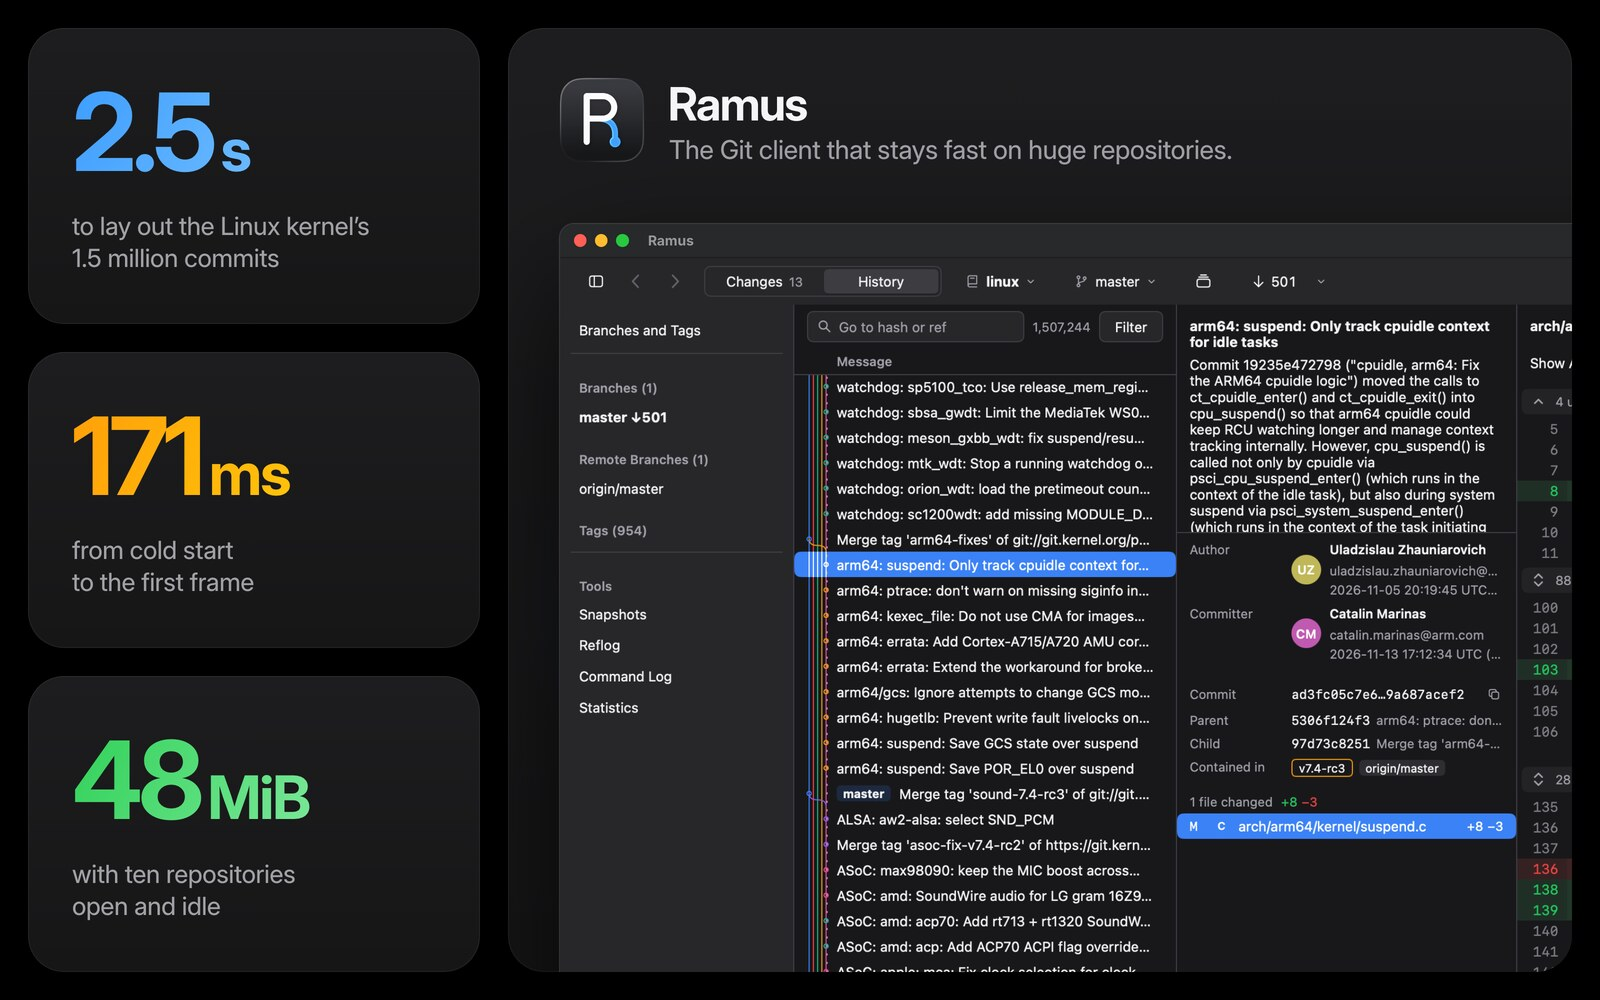
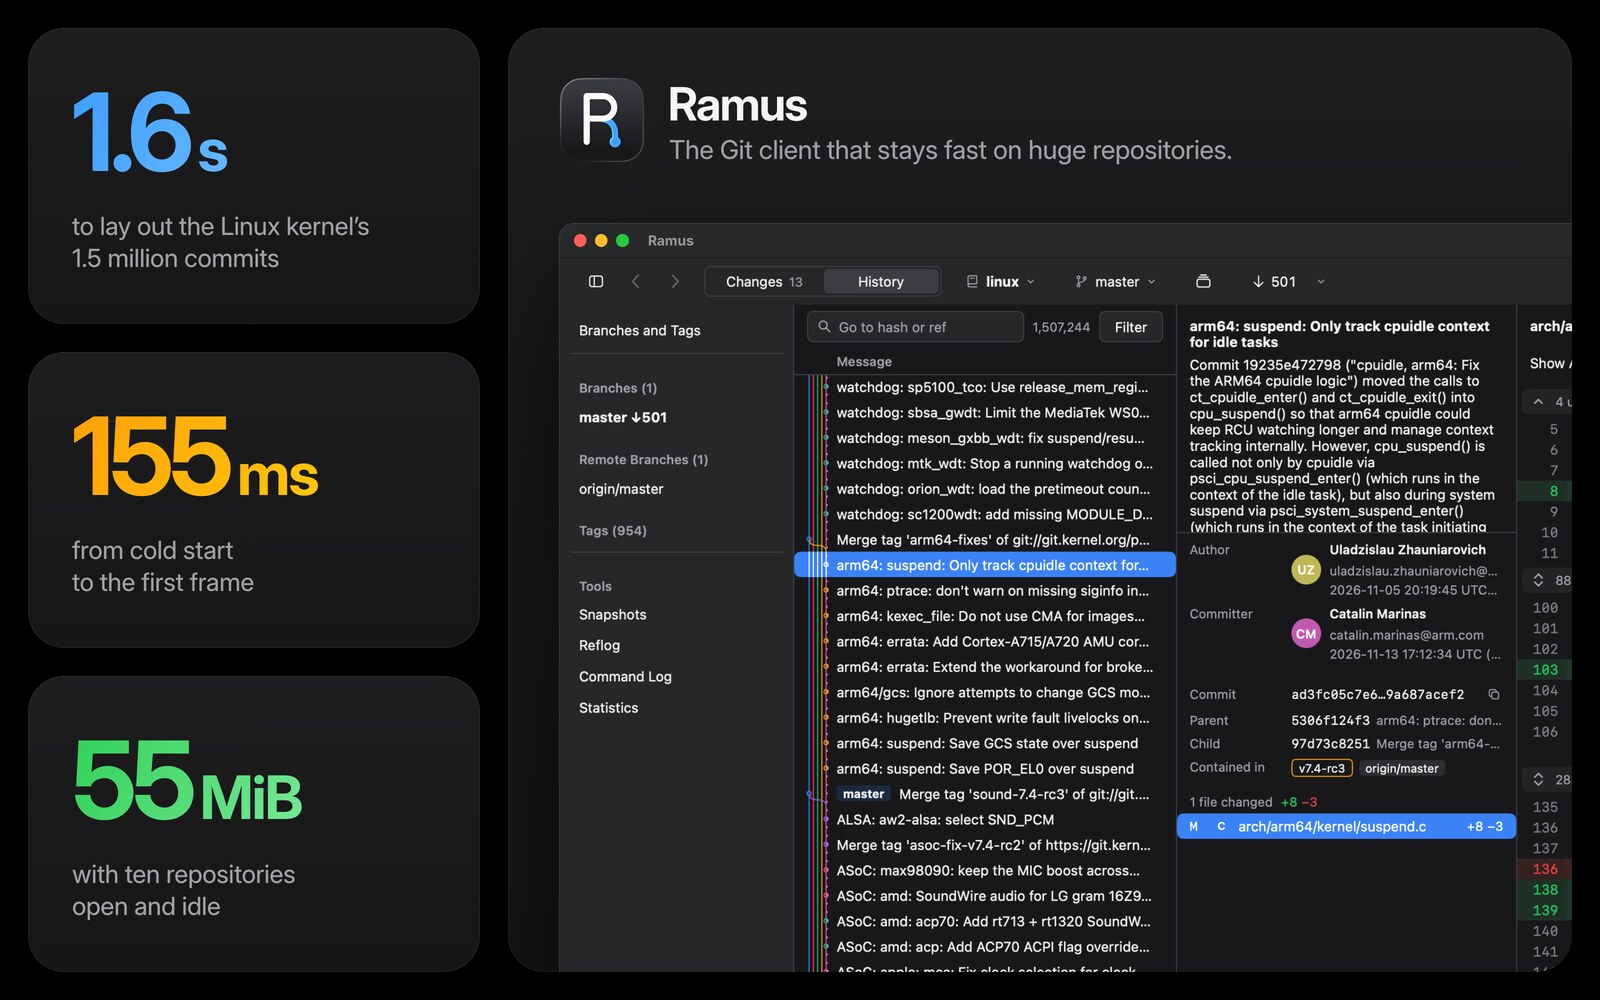
docs: publish the figures measured now, and warn on a slow cold start
README, docs/benchmarks.md and the cards still gave the run of 14
November: a cold start of 171 ms that was the first CI run's, which
recent CI runs put between 141 and 374 ms, and kernel, status, diff and
idle figures the code has moved from. Every figure is now from a rerun
on 19 November by the documented method, the reload table at its own
settings, and the cold start measured on Apple silicon at normal
priority (median 155 ms), the CI runner's spread given beside it. The
cards are rendered again with their new figures.

CI's cold start still fails when the fastest of ten starts is over
300 ms, above every fastest run seen, and now warns over 250 ms, which
two of the last twenty runs reached; the runner's spread cannot hold the
200 ms that hardware does.

Changed region(s): [[0.0312, 0.744, 0.2188, 0.837], [0.0625, 0.403, 0.2188, 0.496], [0.0312, 0.093, 0.1562, 0.186]]

diff --git a/assets/cards/bento.html b/assets/cards/bento.html
@@ -15,9 +15,9 @@ body { background: #000; color: #f5f5f7; }
 .hero p { position: absolute; left: 161px; top: 106px; font-size: 26px; font-weight: 450; letter-spacing: -0.012em; color: #a1a1a6; }
 .win { --k: 1.06; left: 52px; top: 196px; }
 </style>
-<div class="tile stat s1"><b>2.5<small>s</small></b><span>to lay out the Linux kernel&rsquo;s<br>1.5 million commits</span></div>
-<div class="tile stat s2"><b>171<small>ms</small></b><span>from cold start<br>to the first frame</span></div>
-<div class="tile stat s3"><b>48<small>MiB</small></b><span>with ten repositories<br>open and idle</span></div>
+<div class="tile stat s1"><b>1.6<small>s</small></b><span>to lay out the Linux kernel&rsquo;s<br>1.5 million commits</span></div>
+<div class="tile stat s2"><b>155<small>ms</small></b><span>from cold start<br>to the first frame</span></div>
+<div class="tile stat s3"><b>55<small>MiB</small></b><span>with ten repositories<br>open and idle</span></div>
 <div class="tile hero">
   <img class="icon" src="../app-icon/monogram/png/icon-dark-1024.png">
   <h1>Ramus</h1>

diff --git a/assets/cards/midnight.html b/assets/cards/midnight.html
@@ -12,5 +12,5 @@ p { position: absolute; left: 0; right: 0; top: 242px; font-size: 29px; font-wei
 <div class="glow"></div>
 <img class="icon" src="../app-icon/monogram/png/icon-dark-1024.png">
 <h1>Fast on the largest repositories.</h1>
-<p>Ramus lays out the Linux kernel&rsquo;s 1.5 million commits in 2.5 seconds.</p>
+<p>Ramus lays out the Linux kernel&rsquo;s 1.5 million commits in 1.6 seconds.</p>
 <div class="win dark"><div class="bar"><i></i><i></i><i></i><b>Ramus</b></div><img src="history-dark.png"></div>

diff --git a/scripts/coldstart/main.go b/scripts/coldstart/main.go
@@ -21,9 +21,10 @@ import (
 func main() {
 	runs := flag.Int("runs", 10, "runs to time")
 	budget := flag.Duration("budget", 200*time.Millisecond, "the most the fastest run may take")
+	warn := flag.Duration("warn", 0, "warn when the fastest run takes longer than this, short of the budget")
 	flag.Parse()
 	if flag.NArg() != 1 {
-		fmt.Fprintln(os.Stderr, "usage: coldstart [-runs n] [-budget d] <binary>")
+		fmt.Fprintln(os.Stderr, "usage: coldstart [-runs n] [-budget d] [-warn d] <binary>")
 		os.Exit(2)
 	}
 	var times []time.Duration
@@ -44,6 +45,15 @@ func main() {
 	if times[0] > *budget {
 		fmt.Fprintln(os.Stderr, "the fastest cold start is over budget")
 		os.Exit(1)
+	}
+	if *warn > 0 && times[0] > *warn {
+		// An annotation on the run where GitHub Actions runs this.
+		prefix := "warning: "
+		if os.Getenv("GITHUB_ACTIONS") == "true" {
+			prefix = "::warning title=Cold start::"
+		}
+		fmt.Printf("%sthe fastest cold start, %v, is over %v and near the budget of %v\n", prefix,
+			times[0].Round(100*time.Microsecond), *warn, *budget)
 	}
 }
 

diff --git a/docs/benchmarks.md b/docs/benchmarks.md
@@ -12,7 +12,7 @@ rerun on another machine will differ, which is why the method is here.
 | OS | macOS 27.2.1 |
 | git | 2.56.1 |
 | Go | 1.27.4 |
-| Date | 2026-11-14 |
+| Date | 2026-11-19 |
 | Runs | 3 of each case, p50 shown (p95 in the JSON) |
 | Load | GOMAXPROCS=6, at background priority (`taskpolicy -c background`), on a machine in use |
 
@@ -34,21 +34,21 @@ headless tester: a frame there is building, layout and painting in
 software, without the GPU. Cold start, which needs a window, is measured
 apart, in CI.
 
-### Linux kernel (1,506,743 commits, about 90,000 files)
+### Linux kernel (1,507,296 commits, about 90,000 files)
 
 | Case | p50 | Peak memory (app / git) |
 |---|---|---|
-| Open to branches and tags read | 1.05 s | |
-| History: first screen, after the load starts | 35 ms | 172 MiB / 33 MiB |
-| History: open to first screen | 1.08 s | |
-| History: all 1,506,743 commits laid out | 2.54 s | |
-| History with no commit-graph: first screen | 24.6 s | 156 MiB / 1.6 GiB |
-| History with no commit-graph: all commits | 27.3 s | |
-| Scrolling the whole graph: frame time p50 / max over 600 frames | 1.27 ms / 2.5 ms | 235 MiB / 121 MiB |
-| Jump to the first commit by hash | 85 ms | |
-| Filter by message: first screen / all 7,026 found | 108 ms / 29.7 s | 81 MiB / 1.5 GiB |
-| Filter by author: first screen / all 43,776 found | 39 ms / 30.9 s | |
-| Filter by path (`kernel/sched/core.c`): first screen / all 1,993 found | 585 ms / 672 ms | |
+| Open to branches and tags read | 765 ms | |
+| History: first screen, after the load starts | 30 ms | 176 MiB / 33 MiB |
+| History: open to first screen | 795 ms | |
+| History: all 1,507,296 commits laid out | 1.59 s | |
+| History with no commit-graph: first screen | 15.0 s | 159 MiB / 1.6 GiB |
+| History with no commit-graph: all commits | 17.0 s | |
+| Scrolling the whole graph: frame time p50 / max over 600 frames | 60 ms / 2.35 s | 292 MiB / 208 MiB |
+| Jump to the first commit by hash | 496 ms | |
+| Filter by message: first screen / all 7,058 found | 48 ms / 22.9 s | 97 MiB / 1.5 GiB |
+| Filter by author: first screen / all 43,829 found | 33 ms / 23.8 s | |
+| Filter by path (`kernel/sched/core.c`): first screen / all 1,994 found | 525 ms / 581 ms | |
 
 With a commit-graph Ramus walks history itself. Without one it asks
 `git rev-list --topo-order`, which prints nothing until it has walked
@@ -62,16 +62,17 @@ commit-graph ten commits behind, then time the refs moving to the history
 showing the new tip with every row laid out: one commit on top, then a
 fetch of 100 on a remote branch. The kernel case works in a bare clone
 sharing the fixture's objects, with its commit-graph linked in; the other
-in a made repository of 100,010 commits. These were taken on 2026-11-15
-on the machine above at GOMAXPROCS 18 and normal priority, 3 runs each.
+in a made repository of 100,010 commits. These were taken on the day
+above, on the same machine at GOMAXPROCS 18 and normal priority, 3 runs
+each.
 
 | Case | Kernel | 100,010 commits |
 |---|---|---|
-| Graph 10 behind: first screen | 14 ms | 7.4 ms |
-| Graph 10 behind: whole history | 879 ms | 14 ms |
-| A commit on top: shown | 142 ms | 199 ms |
-| A fetch of 100 commits: shown | 149 ms | 141 ms |
-| Peak memory (app / git) | 178 MiB / 18 MiB | 32 MiB / 12 MiB |
+| Graph 10 behind: first screen | 22 ms | 11 ms |
+| Graph 10 behind: whole history | 1.15 s | 23 ms |
+| A commit on top: shown | 146 ms | 156 ms |
+| A fetch of 100 commits: shown | 174 ms | 127 ms |
+| Peak memory (app / git) | 180 MiB / 141 MiB | 80 MiB / 221 MiB |
 
 The commits the graph lacks are read from their objects and history is
 ordered natively, where git used to order it whole: before, the same
@@ -84,57 +85,66 @@ alone above its rows, which stay as they were.
 
 | Case | p50 | Peak memory (app / git) |
 |---|---|---|
-| Open to a populated status panel, no fsmonitor | 3.65 s | 198 MiB / 134 MiB |
+| Open to a populated status panel, no fsmonitor | 3.36 s | 252 MiB / 134 MiB |
 
 ### Repositories the bench makes
 
 | Case | p50 | Peak memory (app / git) |
 |---|---|---|
-| One file saved in a 20,000-file repository, to the status showing it | 171 ms | 26 MiB / 16 MiB |
-| 5,000 files saved at once, to the status showing all of them | 876 ms | 48 MiB / 12 MiB |
-| ... frame time p50 / max meanwhile; git processes at once | 0.84 ms / 12 ms; 1 | |
-| File list of a commit of 10,000 files | 74 ms | 28 MiB / 14 MiB |
-| 50 MB text file's diff: git and reading / the viewer built | 965 ms / 334 ms | 383 MiB / 218 MiB |
-| 100 MB binary's diff | 861 ms | |
-| Ten repositories open, idle: CPU over 30 s | 0.10% | 48 MiB / 9 MiB |
-| 50,000 branches: open to refs and status / branches view | 366 ms / 1.79 s | 64 MiB / 21 MiB |
-| 2,001 packs and 5,000 loose objects: open to status / history | 266 ms / 474 ms | 23 MiB / 73 MiB |
+| One file saved in a 20,000-file repository, to the status showing it | 154 ms | 30 MiB / 16 MiB |
+| 5,000 files saved at once, to the status showing all of them | 1.53 s | 66 MiB / 16 MiB |
+| ... frame time p50 / max meanwhile; git processes at once | 1.04 ms / 52 ms; 2 | |
+| File list of a commit of 10,000 files | 42 ms | 30 MiB / 14 MiB |
+| 50 MB text file's diff: git and reading / the viewer built | 690 ms / 283 ms | 512 MiB / 218 MiB |
+| 100 MB binary's diff | 717 ms | |
+| Ten repositories open, idle: CPU over 30 s | 0.09% | 55 MiB / 12 MiB |
+| 50,000 branches: open to refs and status / branches view | 276 ms / 1.25 s | 65 MiB / 48 MiB |
+| 2,001 packs and 5,000 loose objects: open to status / history | 230 ms / 502 ms | 27 MiB / 72 MiB |
 
 Idle means no frame asked for and no update published over the 30 seconds,
-with a heap of 4.8 MiB.
+with a heap of 6.5 MiB.
 
 Repositories Ramus hands to git or reads another way, each of the same
 3,000 commits:
 
 | Repository | Open to status | Whole history |
 |---|---|---|
-| Plain (files refs, SHA-1) | 274 ms | 57 ms |
-| Reftable refs | 232 ms | 56 ms |
-| SHA-256 objects | 274 ms | 58 ms |
-| Partial clone (`--filter=blob:none`) | 274 ms | 6 ms |
-| Shallow clone (depth 100) | 272 ms | 23 ms |
+| Plain (files refs, SHA-1) | 195 ms | 25 ms |
+| Reftable refs | 161 ms | 36 ms |
+| SHA-256 objects | 212 ms | 29 ms |
+| Partial clone (`--filter=blob:none`) | 194 ms | 3.8 ms |
+| Shallow clone (depth 100) | 202 ms | 15 ms |
 
 ### Soak
 
 The `soak` case opens three repositories, changes a file in one, reloads
 and closes them all, round after round, then checks that goroutines, open
 files, git processes and memory came back. It fails if goroutines or open
-files grow by more than two or the heap more than doubles. Two minutes on
-the machine above: 240 rounds, goroutines 6 to 6, open files 6 to 6, heap
-3.5 to 7.4 MiB. Ten minutes on GitHub's Linux runner: 2,278 rounds,
-goroutines 4 to 4, open files 9 to 9, heap 3.2 to 5.3 MiB. The `Soak`
-workflow runs it for two hours when started.
+files grow by more than two, or the heap to more than twice its size and
+16 MiB. Two minutes on the machine above: 224 rounds, goroutines 6 to 6,
+open files 6 to 6, heap 7.2 to 11.8 MiB. Ten minutes on GitHub's Linux
+runner, on 14 November 2026 and older code: 2,278 rounds, goroutines 4 to
+4, open files 9 to 9, heap 3.2 to 5.3 MiB. The `Soak` workflow runs it
+for two hours when started.
 
 ### Cold start
 
-`scripts/coldstart` starts the built app and times it to its first frame;
-CI runs it ten times on GitHub's macOS runner and fails when the fastest
-run is over 300 ms: a busy runner slows runs at random, never speeds one
-up. The last run: first start 655 ms, median 171 ms, fastest 153 ms.
+`scripts/coldstart` starts the built app (`CGO_ENABLED=0 go build`) and
+times it from exec to its first frame, ten times. On the machine above, at
+normal priority, as a user starts it: four times ten starts, medians 151
+to 160 ms, 155 ms over all, fastest 146 ms; the first start after a build
+482 ms. At background priority, on the efficiency cores, the median is
+300 ms.
+
+CI runs it on GitHub's macOS runner, a virtual machine with a virtual GPU.
+Over the 20 runs of 15 to 18 November 2026 the median of ten starts went
+from 141 to 374 ms (220 ms over all) and the fastest from 135 to 263 ms,
+for the same code, and the first start from 0.7 to 3.3 s. CI fails when
+the fastest is over 300 ms and warns over 250 ms: a busy runner slows runs
+at random, never speeds one up.
 
 ## Not measured yet
 
-- Cold start on real hardware, rather than a CI virtual machine.
 - Status with fsmonitor, and status on Windows and Linux.
 - Status refresh after touching one file in the kernel and the
   390,000-file repository, and anything on a repository of a million files.

diff --git a/README.md b/README.md
@@ -69,14 +69,14 @@ use):
 
 | | |
 |---|---|
-| Linux kernel, open to the first screen of history | 1.08 s |
-| Linux kernel, all 1,506,743 commits laid out in the graph | 2.54 s, 172 MiB |
-| Scrolling the kernel's whole graph, slowest frame of 600 | 2.5 ms |
-| 390,000-file repository, open to a populated status panel | 3.65 s |
-| One file saved, to the status showing it (20,000 files) | 171 ms |
-| 50 MB text diff, read and shown | 1.3 s |
-| Ten repositories open and idle | 0.10% CPU, 48 MiB |
-| Cold start to first frame, on GitHub's macOS runner | 171 ms |
+| Linux kernel, open to the first screen of history | 795 ms |
+| Linux kernel, all 1,507,296 commits laid out in the graph | 1.59 s, 176 MiB |
+| Scrolling the kernel's whole graph, slowest frame of 600 | 2.35 s |
+| 390,000-file repository, open to a populated status panel | 3.36 s |
+| One file saved, to the status showing it (20,000 files) | 154 ms |
+| 50 MB text diff, read and shown | 0.97 s |
+| Ten repositories open and idle | 0.09% CPU, 55 MiB |
+| Cold start to first frame, at normal priority (median of 10) | 155 ms |
 
 Ramus reads git's files on disk itself and draws its interface natively on
 the GPU, with no web view. Everything that writes runs your `git`, so hooks,
